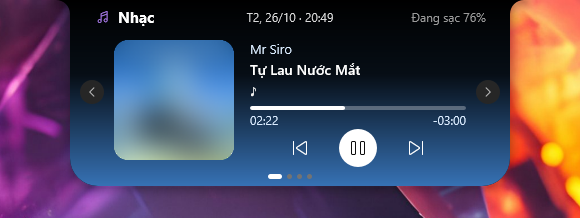
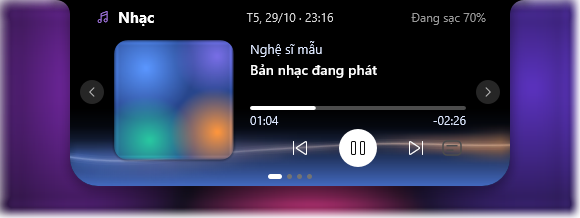
docs: ảnh mới trang Nhạc và Nhạc có lời (đường aurora, ảnh bìa mẫu mờ, nền tím hồng); mô tả ảnh trong README vi/en

diff --git a/README.md b/README.md
@@ -25,7 +25,7 @@ Notch kiểu Dynamic Island cho Windows. Rust + Direct2D, exe ~523 KB, không We
 | ![Việc](assets/screenshots/page-tasks.png)<br>**Việc**: việc và lịch hẹn trong một danh sách | ![Thông báo](assets/screenshots/page-notifications.png)<br>**Thông báo**: kèm icon của từng app |
 | ![Sức khỏe](assets/screenshots/page-health.png)<br>**Sức khỏe**: nhắc uống nước, đứng dậy | ![Banner](assets/screenshots/banner.png)<br>**Banner** thông báo |
 
-![Nhạc với lời](assets/screenshots/page-music-lyrics.png)<br>**Nhạc** với lời bài hát: bảng giãn ngang, dòng đang hát sáng ở giữa
+![Nhạc với lời](assets/screenshots/page-music-lyrics.png)<br>**Nhạc** với lời bài hát: bảng giãn ngang, dòng đang hát sáng ở giữa, đường aurora lượn dọc đáy bảng
 
 Viên thuốc thu gọn:
 

diff --git a/README.en.md b/README.en.md
@@ -25,7 +25,7 @@ A Dynamic Island–style notch for Windows. Rust + Direct2D, ~523 KB exe, no Web
 | ![Tasks](assets/screenshots/page-tasks.png)<br>**Tasks**: tasks and appointments in one list | ![Notifications](assets/screenshots/page-notifications.png)<br>**Notifications**: each with its app's icon |
 | ![Health](assets/screenshots/page-health.png)<br>**Health**: water and stand-up reminders | ![Banner](assets/screenshots/banner.png)<br>Notification **banner** |
 
-![Music with lyrics](assets/screenshots/page-music-lyrics.png)<br>**Music** with lyrics: the panel widens, the line being sung lit in the middle
+![Music with lyrics](assets/screenshots/page-music-lyrics.png)<br>**Music** with lyrics: the panel widens, the line being sung lit in the middle, the aurora line swaying along the bottom
 
 The collapsed pill:
 
